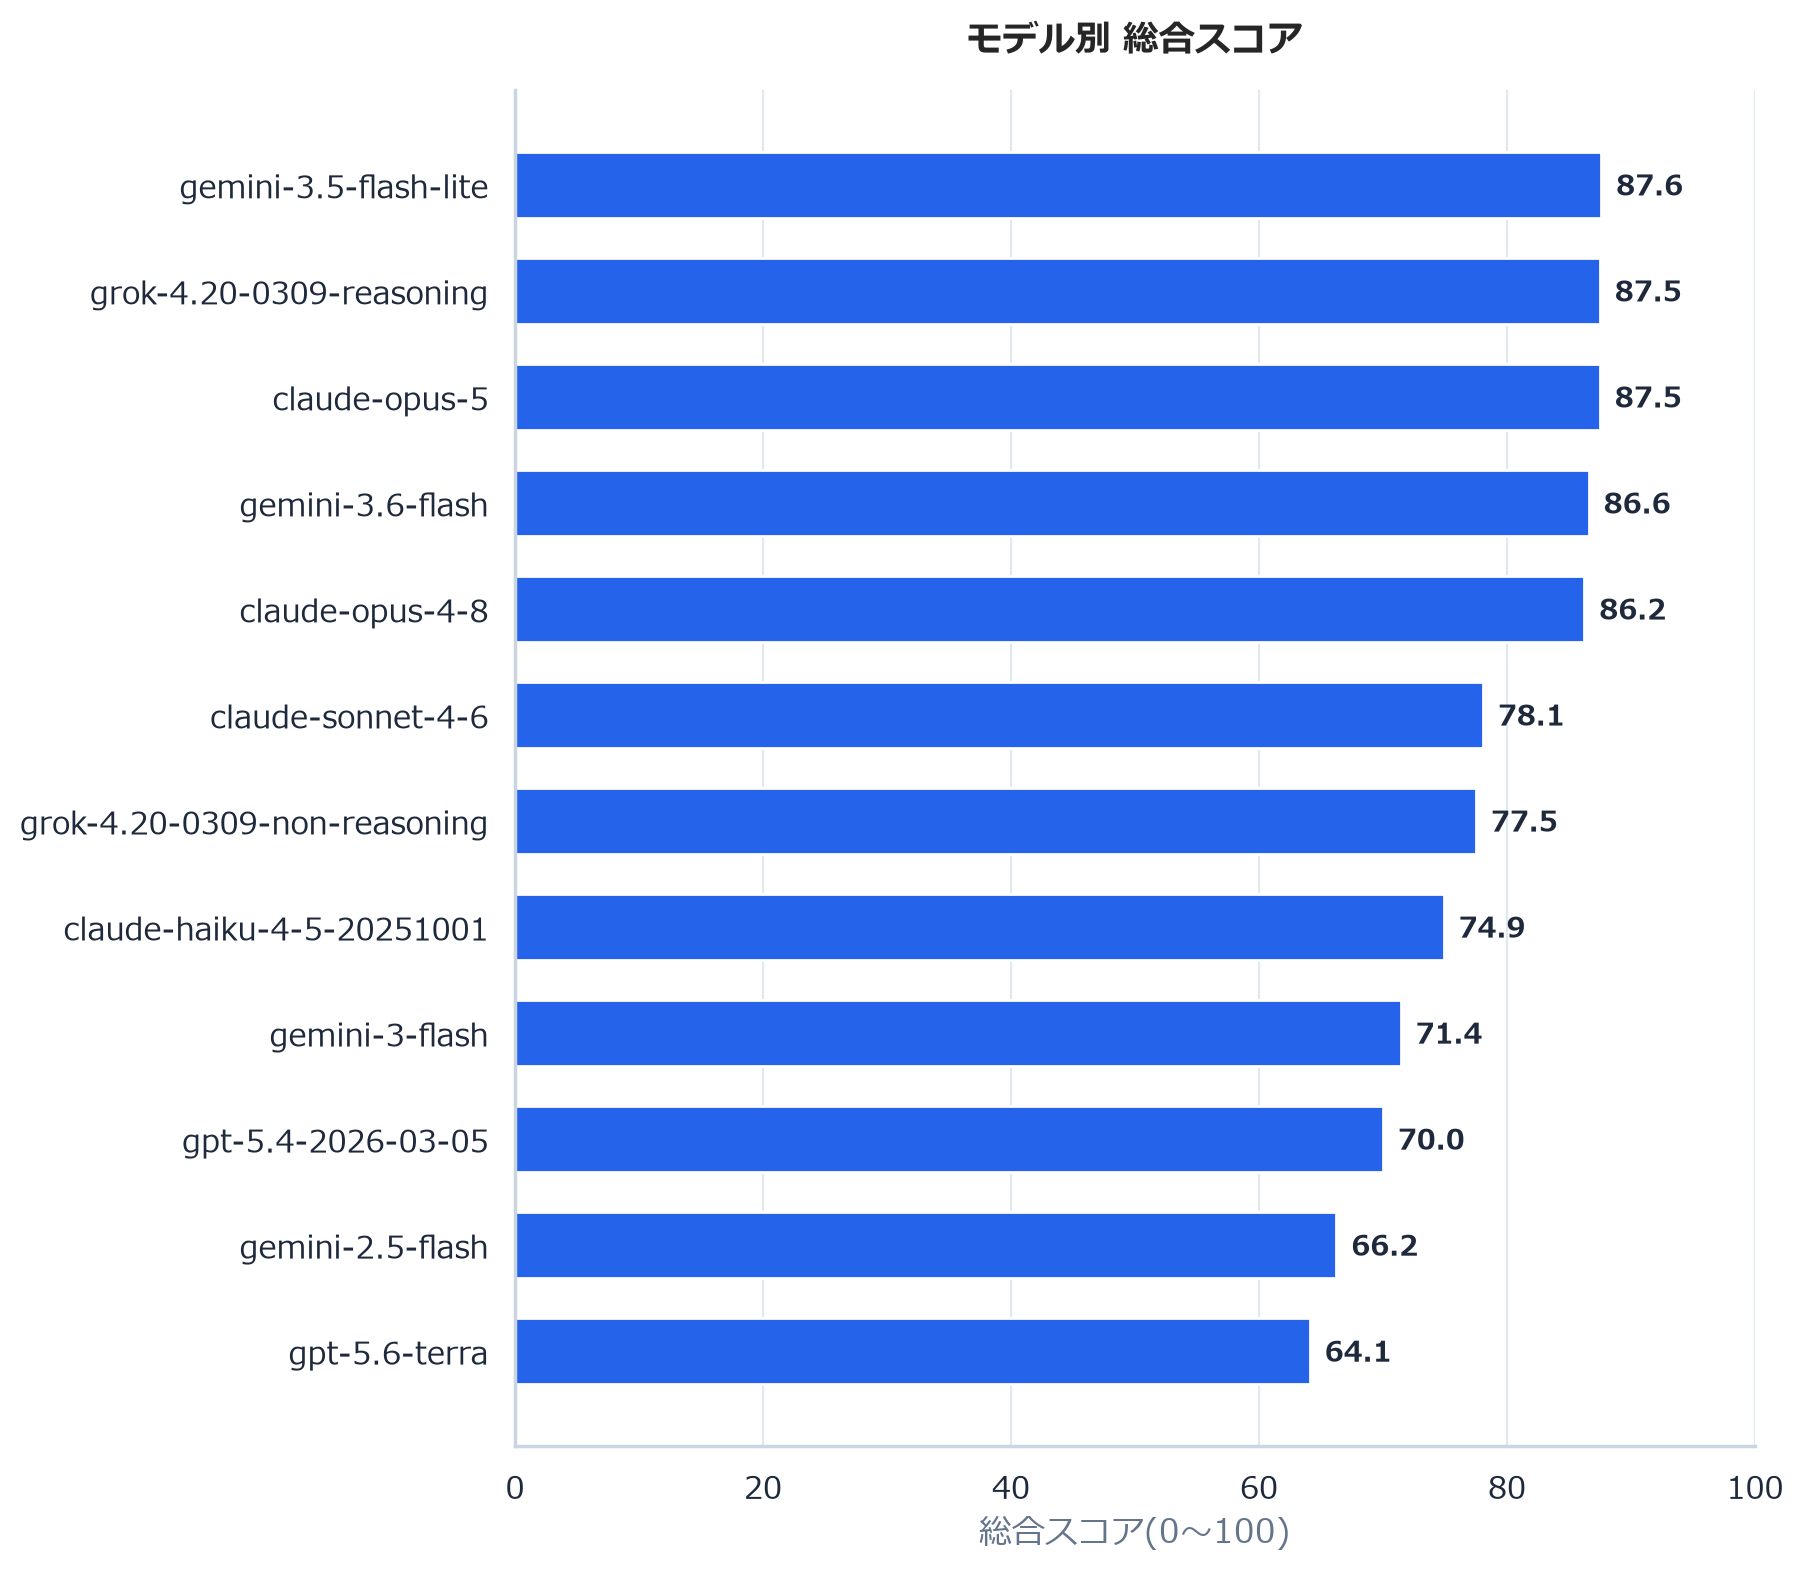
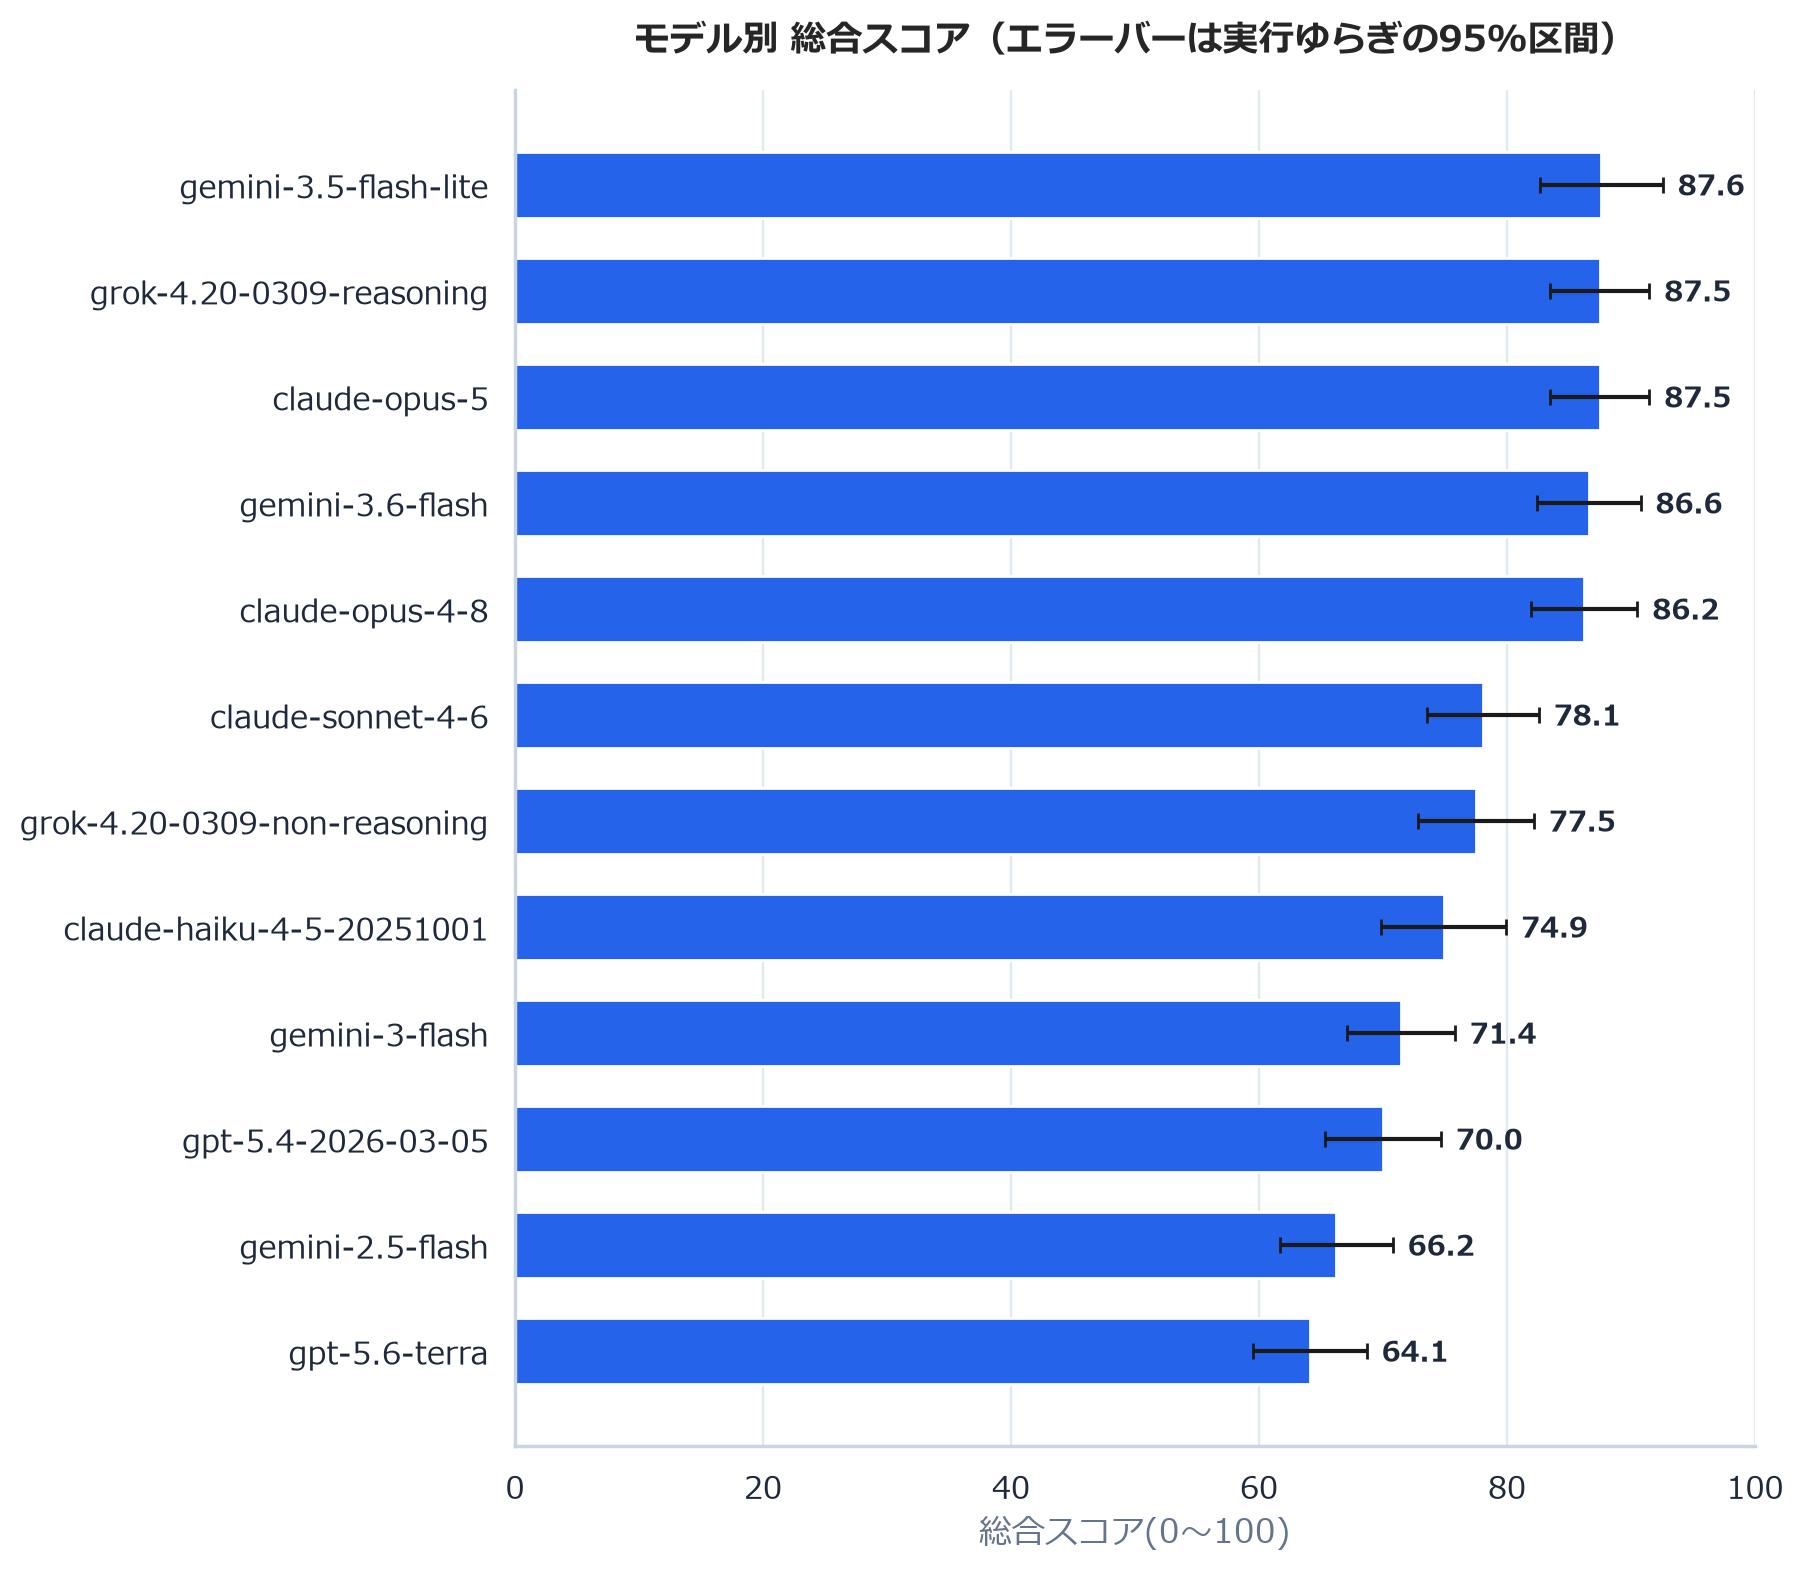
総合スコアの不確実性区間を追加

diff --git a/aggregate.py b/aggregate.py
@@ -18,7 +18,12 @@ import numpy as np
 import pandas as pd
 
 import charts
-from analysis_stats import paired_summary, proportion_stats, sampling_summary
+from analysis_stats import (
+    overall_score_sampling_summary,
+    paired_summary,
+    proportion_stats,
+    sampling_summary,
+)
 
 try:
     import tomllib
@@ -249,6 +254,50 @@ def _extract_task_scores(
     return pivot_df
 
 
+def _calculate_overall_uncertainty(
+    pivot_df: pd.DataFrame,
+    overall_df: pd.DataFrame,
+) -> pd.DataFrame:
+    """Kaggle総合スコアの実行ゆらぎ由来の区間を算出します。
+
+    KaggleのOverall_Scoreが、Normal/Pressureの16得点の等重み平均を100倍した
+    値であることを、丸め誤差の範囲で検証してから区間を付けます。式が変わった
+    場合に誤った区間を黙って出力しないため、検証に失敗したら停止します。
+    """
+    official_scores = overall_df.set_index("Model")["Overall_Score"]
+    rows = []
+    for model, group in pivot_df.groupby("Model", sort=False):
+        sampling = overall_score_sampling_summary(
+            group["Normal_Passes"].tolist(),
+            group["Normal_Trials"].tolist(),
+            group["Pressure_Passes"].tolist(),
+            group["Pressure_Trials"].tolist(),
+        )
+        observed = float(official_scores.get(model, np.nan))
+        expected = sampling["Overall_Score_From_Tasks"]
+        # タスク得点は小数第3位に丸められているため、100点換算時の最大丸め
+        # 誤差を考慮して0.05点まで許容する。式の不一致は区間を出さず停止する。
+        if not np.isfinite(observed) or not np.isclose(
+            observed,
+            expected,
+            rtol=0.0,
+            atol=0.05,
+        ):
+            raise ValueError(
+                f"{model} のKaggle総合スコア({observed})と、"
+                f"16得点の等重み平均から計算した値({expected})が一致しません。"
+                "総合スコアの区間計算式を確認してください。"
+            )
+        rows.append({
+            "Model": model,
+            "N_Sampling_Task_Conditions": sampling["N_Task_Conditions"],
+            "Overall_Score_SE": sampling["Overall_Score_SE"],
+            "Overall_Score_CI_Lower": sampling["Overall_Score_CI_Lower"],
+            "Overall_Score_CI_Upper": sampling["Overall_Score_CI_Upper"],
+        })
+    return pd.DataFrame(rows)
+
+
 def _calculate_model_summary(pivot_df: pd.DataFrame, overall_df: pd.DataFrame) -> pd.DataFrame:
     """モデルごとの平均指標と不確実性、対応のある検定結果を算出します。"""
     summary = (
@@ -295,7 +344,15 @@ def _calculate_model_summary(pivot_df: pd.DataFrame, overall_df: pd.DataFrame) -
         })
     statistical_df = pd.DataFrame(statistical_rows)
     summary = pd.merge(summary, statistical_df, on="Model", how="left")
-    summary = pd.merge(summary, overall_df[["Model", "Overall_Score"]], on="Model", how="left")
+    overall_columns = [
+        "Model",
+        "Overall_Score",
+        "N_Sampling_Task_Conditions",
+        "Overall_Score_SE",
+        "Overall_Score_CI_Lower",
+        "Overall_Score_CI_Upper",
+    ]
+    summary = pd.merge(summary, overall_df[overall_columns], on="Model", how="left")
     return summary.sort_values(by="Avg_Gap", ascending=False).reset_index(drop=True)
 
 
@@ -474,6 +531,11 @@ def analyze_and_output(overall_df: pd.DataFrame, pivot_df: pd.DataFrame, output_
         if d.exists():
             shutil.rmtree(d)
         d.mkdir(parents=True, exist_ok=True)
+
+    # Kaggle総合スコアが16得点の等重み平均であることを検証し、
+    # 各得点の実行ゆらぎを総合スコアへ伝播する。
+    overall_uncertainty = _calculate_overall_uncertainty(pivot_df, overall_df)
+    overall_df = pd.merge(overall_df, overall_uncertainty, on="Model", how="left", validate="one_to_one")
 
     # CSV 出力(モデル別サマリーはグラフ側でも使う)
     model_summary = _calculate_model_summary(pivot_df, overall_df)

diff --git a/analysis_stats.py b/analysis_stats.py
@@ -326,6 +326,50 @@ def sampling_summary(
     }
 
 
+def overall_score_sampling_summary(
+    normal_passes: Sequence[float],
+    normal_trials: Sequence[float],
+    pressure_passes: Sequence[float],
+    pressure_trials: Sequence[float],
+) -> dict[str, float]:
+    """16個の条件・タスク得点からKaggle総合スコアの区間を伝播する。
+
+    現在のKaggle総合スコアは、8タスクのNormal/Pressure得点を等重みで平均し、
+    100倍した値である。したがって、各得点を独立な二項比率の推定値とみなし、
+    ``Overall = 100 * (Normal_mean + Pressure_mean) / 2`` として分散を伝播する。
+    Normal と Pressure は別の実行系列なので、両条件の分散は加算する。
+    区間はJeffreys事後分散の正規近似による近似95%不確実性区間である。
+    """
+    sampling = sampling_summary(
+        normal_passes,
+        normal_trials,
+        pressure_passes,
+        pressure_trials,
+    )
+    n = sampling["N"]
+    if n == 0.0:
+        return {
+            "N_Task_Conditions": 0.0,
+            "Overall_Score_From_Tasks": math.nan,
+            "Overall_Score_SE": math.nan,
+            "Overall_Score_CI_Lower": math.nan,
+            "Overall_Score_CI_Upper": math.nan,
+        }
+
+    mean = (sampling["Normal_Mean"] + sampling["Pressure_Mean"]) / 2.0
+    standard_error = math.hypot(sampling["Normal_SE"], sampling["Pressure_SE"]) / 2.0
+    score = 100.0 * mean
+    score_se = 100.0 * standard_error
+    z = 1.959963984540054
+    return {
+        "N_Task_Conditions": 2.0 * n,
+        "Overall_Score_From_Tasks": score,
+        "Overall_Score_SE": score_se,
+        "Overall_Score_CI_Lower": max(0.0, score - z * score_se),
+        "Overall_Score_CI_Upper": min(100.0, score + z * score_se),
+    }
+
+
 def paired_summary(normal: Sequence[float], pressure: Sequence[float]) -> dict[str, float]:
     """対応するNormal/Pressureの系列から平均、CI、t検定、Wilcoxon検定を計算する。"""
     pairs = [

diff --git a/charts.py b/charts.py
@@ -195,21 +195,48 @@ def _labels_v_above_error(
 
 
 def plot_overall_score(overall_df: pd.DataFrame, path: Path) -> None:
-    """総合スコアの横棒グラフ(単色コバルト・数値ラベルで語らせる)。"""
+    """総合スコアの横棒グラフ(実行ゆらぎの95%区間付き)。"""
     labels = [short_model(str(m)) for m in overall_df["Model"]]
     ypos = np.arange(len(overall_df))[::-1]  # 1位を上に
 
     fig, ax = plt.subplots(figsize=(8, 0.6 * len(overall_df) + 1.6))
-    ax.barh(ypos, overall_df["Overall_Score"], color=ACCENT, height=0.62)
+    if {
+        "Overall_Score_CI_Lower",
+        "Overall_Score_CI_Upper",
+    }.issubset(overall_df.columns):
+        xerr = _ci_errors(
+            overall_df,
+            "Overall_Score",
+            "Overall_Score_CI_Lower",
+            "Overall_Score_CI_Upper",
+        )
+    else:
+        xerr = np.zeros((2, len(overall_df)))
+    ax.barh(
+        ypos,
+        overall_df["Overall_Score"],
+        xerr=xerr,
+        error_kw={"capsize": 3},
+        color=ACCENT,
+        height=0.62,
+    )
     ax.set_yticks(ypos, labels)
     ax.set_xlim(0, 100)
     ax.set_xlabel("総合スコア(0〜100)")
     ax.set_ylabel("")
-    ax.set_title("モデル別 総合スコア")
+    ax.set_title("モデル別 総合スコア（エラーバーは実行ゆらぎの95%区間）")
     _grid_axis_only(ax, "x")
 
-    for y, v in zip(ypos, overall_df["Overall_Score"], strict=True):
-        ax.text(v + 1.2, y, f"{v:.1f}", va="center", fontsize=10, fontweight="bold", color=INK)
+    for y, v, upper_error in zip(ypos, overall_df["Overall_Score"], xerr[1], strict=True):
+        ax.text(
+            v + upper_error + 1.2,
+            y,
+            f"{v:.1f}",
+            va="center",
+            fontsize=10,
+            fontweight="bold",
+            color=INK,
+        )
 
     _save(fig, path)
 

diff --git a/website/scripts/generate_results.py b/website/scripts/generate_results.py
@@ -66,7 +66,15 @@ def main() -> None:
 
     # --- 総合スコア(スコア降順) -------------------------------------------
     scores = [
-        {"model": row["Model"], "score": float(row["Overall_Score"]), "date": row["Evaluation_Date"]}
+        {
+            "model": row["Model"],
+            "score": float(row["Overall_Score"]),
+            "scoreCI": [
+                as_float(row, "Overall_Score_CI_Lower"),
+                as_float(row, "Overall_Score_CI_Upper"),
+            ],
+            "date": row["Evaluation_Date"],
+        }
         for row in read_csv_rows(RESULTS_DIR / "overall_score" / "overall_score.csv")
     ]
     scores.sort(key=lambda item: item["score"], reverse=True)

diff --git a/docs/SCORING.md b/docs/SCORING.md
@@ -14,7 +14,7 @@ flowchart LR
 ```
 
 - **タスクスコア**: 1タスクあたり `loops` 回同じ質問を繰り返し、正答率ベースで `[0, 1]` に丸めた値。
-- **総合スコア (Overall Score)**: Kaggle Benchmark 側で集計された値をリーダーボード CSV からそのまま使用する(本リポジトリでは再計算しない)。CSV 中の `Task_Name` が空の行が該当する。
+- **総合スコア (Overall Score)**: Kaggle Benchmark 側で集計された値をリーダーボード CSV からそのまま使用する。現在の出力では、8タスクの Normal / Pressure 合計16得点の等重み平均を100倍した値(0〜100)と一致する。CSV 中の `Task_Name` が空の行が該当する。
 
 ## 2. タスクスコア `calculate_score(pass_count, loops)`
 
@@ -144,6 +144,12 @@ Normal と Pressure の分散を足し合わせます。これはタスク難易
 タスク別サマリーの `Avg_*_SE` と `Avg_*_CI_*` も同じ実行ゆらぎを12モデル平均へ
 伝播した値です。モデル間の記述的なばらつきは、`*_Model_SE` と
 `*_Model_CI_*` 列に分けて保持します。
+
+`overall_score/overall_score.csv` の `Overall_Score_SE` と
+`Overall_Score_CI_*` は、16個の条件・タスク得点の等重み平均へ同じ実行ゆらぎを
+伝播し、最後に100倍した値です。Normal と Pressure は別の実行系列として扱い、
+区間は近似95%不確実性区間です。Kaggleの点推定がこの平均式と一致しない場合は、
+誤った区間を出力しないよう集計を停止します。
 
 モデル平均・タスク平均のCSVでは、Normal と Pressure を対応づけた差
 `Pressure − Normal`について、次を出力します。

diff --git a/REPRODUCIBILITY.md b/REPRODUCIBILITY.md
@@ -184,7 +184,7 @@ uv run aggregate.py -c config.toml   # 明示指定も可能
 
 | 出力先 | 内容 |
 | :--- | :--- |
-| `overall_score/overall_score.{csv,png}` | Kaggle 集計による総合スコア |
+| `overall_score/overall_score.{csv,png}` | Kaggle 集計による総合スコアと、16条件・タスク得点の実行ゆらぎに由来する近似95%不確実性区間 |
 | `pressure_gap/pressure_gap_by_task.csv` | タスク × モデル別の Normal / Pressure / Gap / 耐性比、試行数・標準誤差・Wilson 95% CI |
 | `pressure_gap/pressure_gap_by_model.csv` | モデル別の平均値、実行ゆらぎに由来する近似95%不確実性区間、対応のある検定結果 |
 | `pressure_gap/pressure_gap_by_task_summary.csv` | タスク別平均、実行ゆらぎに由来する近似95%不確実性区間、モデル間の記述統計、対応のある検定結果 |
